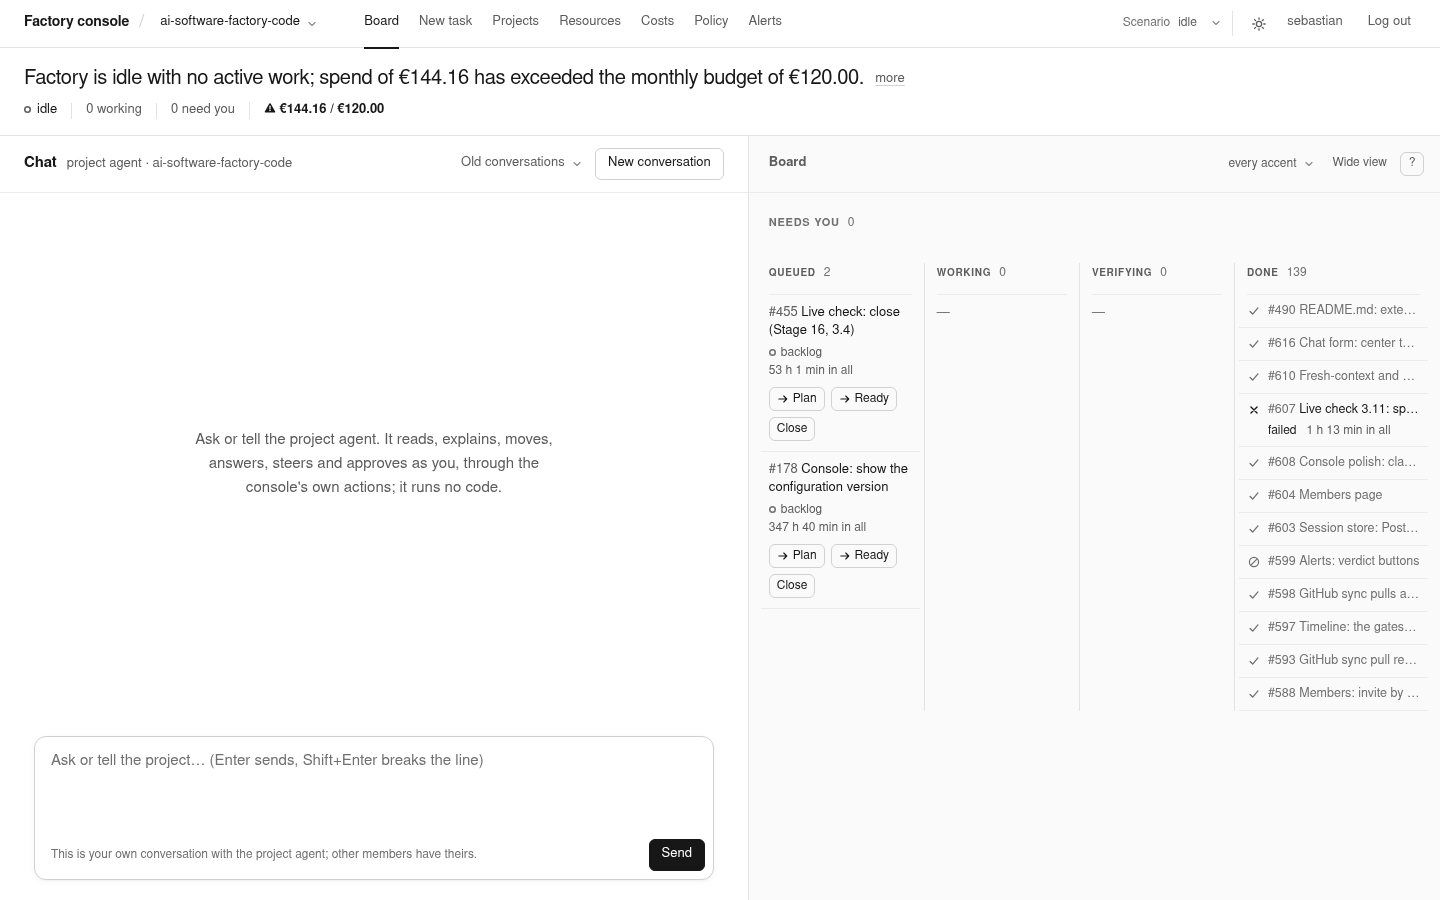
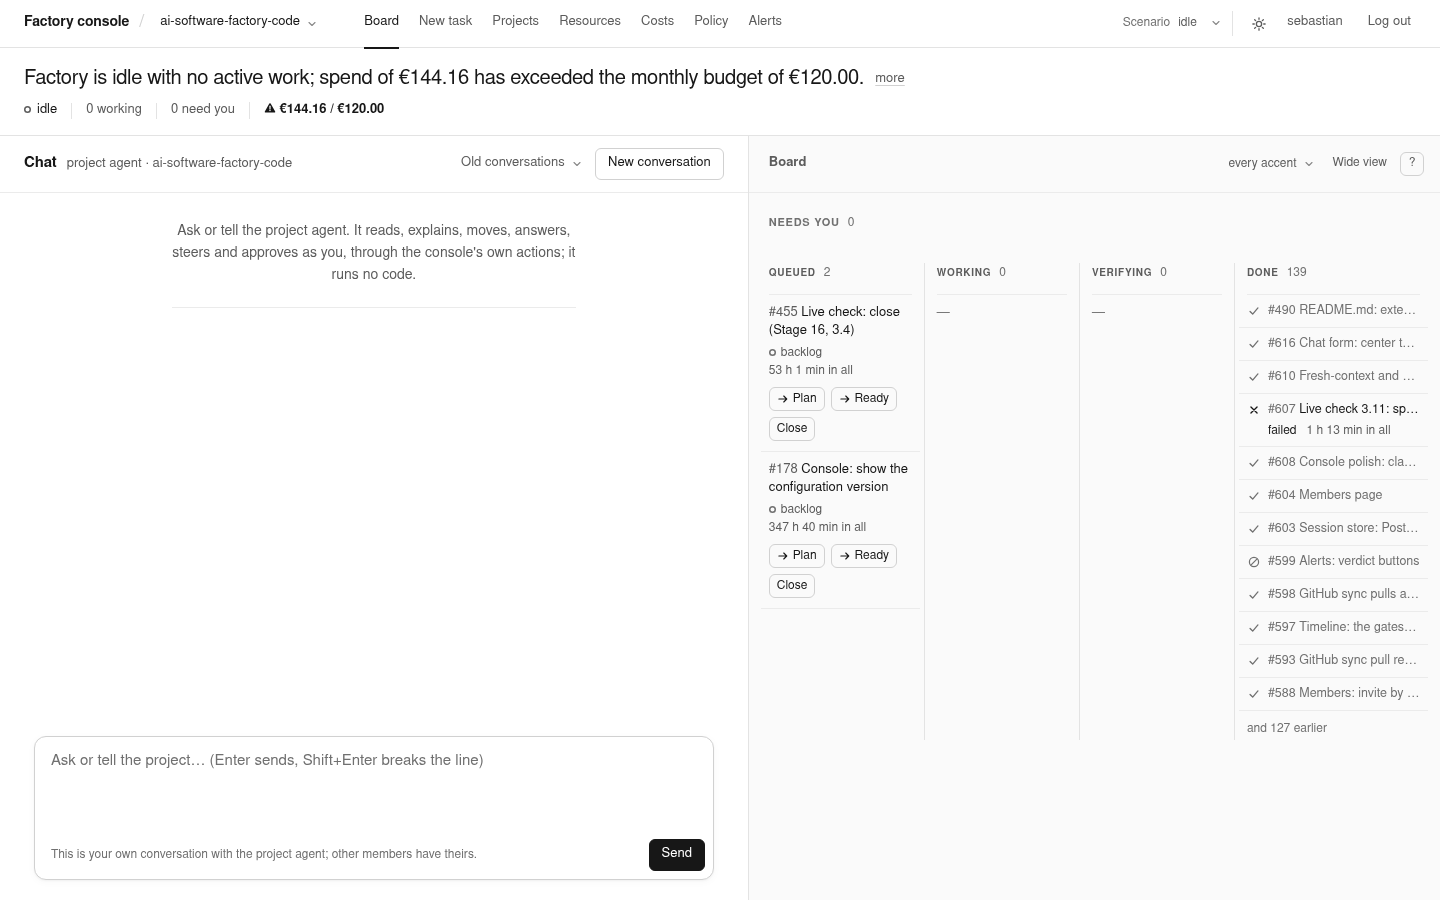
prototype 02 Geist contrast: fix loop 1 (phone buttons full width, contrast on tinted cards, the chat's start line, activity lines, idle Done) and the second critique

Changed region(s): [[0.125, 0.4667, 0.375, 0.56], [0.125, 0.2489, 0.4062, 0.3111]]

diff --git a/design/prototypes/02-geist-contrast/index.html b/design/prototypes/02-geist-contrast/index.html
@@ -27,7 +27,7 @@
   --text: #ededed; --text-muted: #a1a1a1; --text-faint: #808080;
   --primary-bg: #ededed; --primary-fg: #0a0a0a; --primary-hover: #ffffff;
   --need: #ffb224; --need-fill: #ffb224; --need-fill-hover: #ffc554; --need-fg: #0a0a0a; --need-fill-line: #ffb224;
-  --need-tint: rgb(255 178 36 / .07); --need-line: rgb(255 178 36 / .38); --need-line-strong: rgb(255 178 36 / .6);
+  --need-tint: rgb(255 178 36 / .07); --need-line: rgb(255 178 36 / .38); --need-line-strong: rgb(255 178 36 / .6); --need-muted: #b0b0b0;
   --shadow-drawer: -24px 0 48px rgb(0 0 0 / .5); --scrim: rgb(0 0 0 / .55); --shadow-soft: none; --ring: rgb(255 255 255 / .08);
 }
 [data-theme="light"] {
@@ -38,7 +38,7 @@
   --text: #171717; --text-muted: #5c5c5c; --text-faint: #707070;
   --primary-bg: #171717; --primary-fg: #fff; --primary-hover: #383838;
   --need: #a35200; --need-fill: #ffb224; --need-fill-hover: #ffa70a; --need-fg: #171717; --need-fill-line: #d18a0a;
-  --need-tint: #fff6e5; --need-line: #f0c987; --need-line-strong: #d9a24a;
+  --need-tint: #fff6e5; --need-line: #f0c987; --need-line-strong: #d9a24a; --need-muted: #4a4a4a;
   --shadow-drawer: -12px 0 40px rgb(0 0 0 / .08); --scrim: rgb(250 250 250 / .6); --shadow-soft: 0 1px 2px rgb(0 0 0 / .04), 0 2px 8px rgb(0 0 0 / .03); --ring: rgb(0 0 0 / .06);
 }
 * { box-sizing: border-box; }
@@ -69,8 +69,9 @@ ul, ol { padding: 0; list-style: none; }
 .btn-primary:hover { background: var(--primary-hover); border-color: var(--primary-hover); }
 .btn-need { background: var(--need-fill); color: var(--need-fg); border-color: var(--need-fill-line); font-weight: 600; }
 .btn-need:hover { background: var(--need-fill-hover); border-color: var(--need-fill-line); }
-.btn-choice { border-color: var(--need-line-strong); }
-.btn-choice:hover { background: var(--need-tint); border-color: var(--need); }
+.btn-choice, .need .btn:not(.btn-need):not(.btn-ghost), .open.is-need .btn:not(.btn-need) { border-color: var(--need-line-strong); }
+.btn-choice:hover, .need .btn:not(.btn-need):not(.btn-ghost):hover, .open.is-need .btn:not(.btn-need):hover { background: var(--need-tint); border-color: var(--need); }
+.need .acts, .need .choices, .need .row { align-items: center; }
 .btn-ghost { border-color: transparent; color: var(--text-muted); }
 .btn-ghost:hover { color: var(--text); background: var(--hover-strong); border-color: transparent; }
 .icon-btn { display: inline-grid; place-items: center; width: 32px; height: 32px; border-radius: var(--r-ctl); border: 0; background: transparent; color: var(--text-muted); transition: background var(--t), color var(--t); }
@@ -151,14 +152,12 @@ label.lbl { display: block; font-size: 12px; color: var(--text-muted); margin: 0
 .chat-tools { margin-left: auto; display: flex; align-items: center; gap: 8px; }
 .log { overflow-y: auto; min-height: 0; padding: 24px 24px 16px; scroll-behavior: smooth; }
 .col-c { max-width: 680px; margin: 0 auto; }
-.log .col-c { display: grid; gap: 20px; min-height: 100%; align-content: end; }
-.log .col-c:has(.empty-chat) { align-content: stretch; }
-.start { display: flex; align-items: center; gap: 12px; color: var(--text-faint); font-size: 12px; }
-.start::before, .start::after { content: ""; flex: 1; height: 1px; background: var(--line); }
-.empty-chat { display: grid; place-items: center; align-self: stretch; }
-.empty-chat p { max-width: 46ch; text-align: center; color: var(--text-muted); font-size: 15px; line-height: 1.6; }
+.log .col-c { display: flex; flex-direction: column; gap: 20px; min-height: 100%; }
+.log .col-c > .msg-agent { align-self: flex-start; }
+.start { align-self: center; max-width: 52ch; padding: 4px 0 20px; text-align: center; color: var(--text-muted); font-size: 14px; line-height: 22px; border-bottom: 1px solid var(--line); }
+.log .col-c > .start { margin-bottom: auto; }
 .msg { font-size: 15px; line-height: 24px; }
-.msg-you { justify-self: end; max-width: 80%; display: grid; justify-items: end; gap: 4px; }
+.msg-you { align-self: flex-end; max-width: 80%; display: grid; justify-items: end; gap: 4px; }
 .bubble { background: var(--bg-sub); padding: 8px 14px; border-radius: 14px 14px 4px 14px; }
 .msg-meta { font-size: 12px; line-height: 16px; color: var(--text-faint); }
 .msg-agent { display: grid; gap: 10px; max-width: 72ch; }
@@ -225,6 +224,8 @@ label.lbl { display: block; font-size: 12px; color: var(--text-muted); margin: 0
 .cols .col:last-child { padding-right: 0; }
 .cols .col-h { border-bottom: 1px solid var(--line); height: 32px; align-items: flex-start; }
 .col-empty { padding: 10px 0; color: var(--text-faint); }
+.earlier { display: inline-block; padding: 10px 0 0; font-size: 12px; color: var(--text-faint); text-decoration: none; transition: color var(--t); }
+.earlier:hover { color: var(--text); text-decoration: underline; text-underline-offset: 3px; }
 
 .card { position: relative; padding: 10px 8px; margin: 0 -8px; border-bottom: 1px solid var(--line); border-radius: 0; display: grid; gap: 4px; transition: background var(--t); }
 .card:hover { background: var(--hover); }
@@ -237,7 +238,7 @@ label.lbl { display: block; font-size: 12px; color: var(--text-muted); margin: 0
 .meta > .spend { flex-basis: 100%; white-space: normal; flex-wrap: wrap; gap: 0 5px; }
 .meta .hi { color: var(--text); }
 .meta .st-need { color: var(--need); }
-.activity { font: 11.5px/16px var(--mono); color: var(--text-faint); display: -webkit-box; -webkit-line-clamp: 2; -webkit-box-orient: vertical; overflow: hidden; overflow-wrap: anywhere; }
+.activity { font: 11.5px/16px var(--mono); color: var(--text-muted); display: -webkit-box; -webkit-line-clamp: 2; -webkit-box-orient: vertical; overflow: hidden; overflow-wrap: anywhere; }
 .activity .hi { color: var(--text); }
 .chips { display: flex; flex-wrap: wrap; gap: 4px; }
 .chip { display: inline-flex; align-items: center; height: 18px; padding: 0 6px; border-radius: 4px; background: var(--bg-sub); color: var(--text-muted); font-size: 11px; line-height: 1; white-space: nowrap; }
@@ -257,6 +258,7 @@ label.lbl { display: block; font-size: 12px; color: var(--text-muted); margin: 0
 .card-done.is-failed .meta { padding-left: 21px; }
 
 /* needs you */
+.need, .open.is-need { --text-muted: var(--need-muted); --text-faint: var(--need-muted); }
 .need { background: var(--need-tint); border: 1px solid var(--need-line); border-radius: var(--r-box); padding: 14px 16px 16px; display: grid; gap: 8px; align-content: start; min-width: 0; }
 .need-h { display: flex; align-items: flex-start; gap: 8px; }
 .need-title { text-align: left; border: 0; background: none; padding: 0; font-size: 14px; line-height: 20px; font-weight: 600; letter-spacing: -.005em; }
@@ -414,7 +416,11 @@ kbd { font: 12px/1 var(--mono); padding: 3px 6px; border: 1px solid var(--line-s
   .col-h { height: auto; }
   .col-needs { margin-bottom: 0; border-bottom: 1px solid var(--line-region); padding-bottom: 16px; }
   .needs-grid { grid-template-columns: 1fr; }
-  .need .acts .btn, .need .choices .btn { flex: 1 1 100%; height: 44px; font-size: 15px; }
+  .need .acts .btn, .need .choices .btn, .need .row .btn, .need .verdict .btn { flex: 1 1 100%; width: 100%; height: 44px; font-size: 15px; }
+  .need .verdict { display: grid; gap: 6px; margin: 0; }
+  .need .verdict .btn { border: 1px solid var(--need-line-strong); color: var(--text); font-weight: 500; }
+  .need-foot { flex-direction: column; flex-wrap: nowrap; align-items: stretch; gap: 6px; }
+  .need-foot .link { display: flex; align-items: center; justify-content: center; height: 44px; font-size: 15px; }
   .need .acts .btn-need { order: -1; }
   .cols { display: flex; flex-direction: column; }
   .cols .col { padding: 0; border-left: 0; border-bottom: 1px solid var(--line-region); }
@@ -624,10 +630,9 @@ function renderPulse(computing) {
   el.classList.toggle('is-prominent', !!p.prominent);
   const stateK = sc.state === 'waiting on you' ? 'need' : sc.state === 'working' ? 'run' : 'idle';
   const over = sc.spend > sc.cap;
-  const working = sc.working.filter((c) => !c.provider).length;
   const figs = [
     `<li class="fig-state"><span class="dot" data-s="${stateK}"></span>${esc(sc.state)}</li>`,
-    `<li>${working} working</li>`,
+    `<li>${sc.workingCount} working</li>`,
     sc.provider ? `<li>${sc.provider} waiting on the provider</li>` : '',
     `<li><a href="#needs" data-act="to-needs" class="${sc.needYou ? 'is-need' : ''}">${sc.needYou} ${sc.needYou === 1 ? 'needs' : 'need'} you</a></li>`,
     `<li><a href="#" class="${over ? 'is-over' : ''}" title="Costs">${over ? ic('warn', 'i-s') + ' ' : ''}${eur(sc.spend)} / ${eur(sc.cap)}</a></li>`,
@@ -661,13 +666,10 @@ function renderChat() {
   $('#chat-sub').textContent = 'project agent · ' + sc.project;
   const log = ui.chat;
   const col = $('#log-col');
-  if (!log.length) {
-    col.innerHTML = '<div class="empty-chat"><p>Ask or tell the project agent. It reads, explains, moves, answers, steers and approves as you, through the console\'s own actions; it runs no code.</p></div>';
-  } else {
-    col.innerHTML = `<p class="start">${esc(log[0].at || '')}</p>` + log.map((m, i) => m.who === 'you'
+  col.innerHTML = '<p class="start">Ask or tell the project agent. It reads, explains, moves, answers, steers and approves as you, through the console\'s own actions; it runs no code.</p>'
+    + log.map((m, i) => m.who === 'you'
       ? `<div class="msg msg-you"><p class="bubble">${esc(m.text)}</p><p class="msg-meta">${esc(m.at || '')}</p></div>`
       : agentMsg(m, i)).join('');
-  }
   $('#old-conv').innerHTML = '<option value="">Old conversations</option>' + ui.old.map((o, i) => `<option value="${i}">${esc(o[0].at)} · ${esc(o[0].text)}</option>`).join('');
   const q = $('#queue');
   q.hidden = !ui.queue.length;
@@ -772,6 +774,7 @@ function face(c, col) {
   return `<article class="card${c.stale ? ' is-stale' : ''}${open}" data-card="${c.issue}">
     ${titleBtn(c)}${stateRow(c, col)}${act}${chipsOf(c)}${acts.length ? `<div class="acts" data-confirm>${acts.join('')}</div>` : ''}</article>`;
 }
+const DONE_ROWS = 12;
 const COLS = [['queued', 'Queued'], ['working', 'Working'], ['verifying', 'Verifying'], ['done', 'Done']];
 function colHead(key, title, count) {
   const exp = !ui.collapsed[key];
@@ -784,10 +787,12 @@ function renderBoard() {
   let html = `<section class="col col-needs${needs.length ? '' : ' is-empty'}" id="needs" aria-labelledby="h-needs" tabindex="-1">${colHead('needs', 'Needs you', needs.length)}
     <div class="needs-grid col-list" id="list-needs"${hidden('needs')}>${needs.map((n) => needItem(n)).join('')}</div></section><div class="cols">`;
   for (const [key, title] of COLS) {
-    const list = f(sc[key]);
-    const count = key === 'done' && sc.doneCount && !ui.accent ? sc.doneCount : list.length;
+    const all = f(sc[key]);
+    const count = key === 'done' && sc.doneCount && !ui.accent ? sc.doneCount : all.length;
+    const list = key === 'done' ? all.slice(0, DONE_ROWS) : all;
+    const earlier = key === 'done' && count > list.length ? `<a class="earlier" href="#">and ${count - list.length} earlier</a>` : '';
     html += `<section class="col" data-col="${key}" aria-labelledby="h-${key}">${colHead(key, title, count)}
-      <div class="col-list" id="list-${key}"${hidden(key)}>${list.length ? list.map((c) => face(c, key)).join('') : '<p class="col-empty" aria-label="none">—</p>'}</div></section>`;
+      <div class="col-list" id="list-${key}"${hidden(key)}>${list.length ? list.map((c) => face(c, key)).join('') : '<p class="col-empty" aria-label="none">—</p>'}${earlier}</div></section>`;
   }
   $('#board-scroll').innerHTML = html + '</div>';
 }

diff --git a/design/themes/02-geist-contrast/DESIGN.md b/design/themes/02-geist-contrast/DESIGN.md
@@ -24,6 +24,7 @@ Vercel's Geist: pure black or pure white, greys for everything normal, one warm 
 | --need | #ffb224 (11.6:1) | #a35200 (5.6:1) | Needs you headings, the pulse's warning sign, "waiting on you", "n need you" |
 | --need-fill | #ffb224, text #0a0a0a | #ffb224, text #171717 (9.9:1), border #d18a0a | Approve as you, Grant one session, Accept plan |
 | --need-tint / --need-line | amber 7 % / amber 38 % | #fff6e5 / #f0c987 | the Needs you item's ground and edge |
+| --need-muted | #b0b0b0 | #4a4a4a (8.3:1 on #fff6e5) | replaces --text-muted and --text-faint inside Needs you items and the drawer's open need |
 | state hues | greyscale | greyscale | running: filled dot in --text, pulsing; in review: filled dot in --text-muted; queued, backlog, waiting on dependencies: hollow ring; waiting on a human: amber dot; done: check; failed: cross in --text; closed: slashed circle. The word always follows the glyph, so colour is never the only signal |
 
 Elevation: dark uses hairlines only; light adds soft shadows (drawer `-12px 0 40px rgb(0 0 0 / .08)`, composer and proposal `0 1px 2px rgb(0 0 0 / .04)`). That and the grey board tray make light a day mood, not an inversion.
@@ -56,6 +57,7 @@ Prominent (a card needs a person): the amber warning sign before the sentence, w
 
 - No panel box: the chat is the page's own black or white; it reads as the main region by width, the 15 px type and the large composer.
 - Header: "Chat", "project agent · project", old conversations select, New conversation (secondary button).
+- The start line tops every log, centred, 14 px muted, a 1 px rule under it: "Ask or tell the project agent. It reads, explains, moves, answers, steers and approves as you, through the console's own actions; it runs no code." The messages sit at the bottom of the log, by the composer, so the start line fills the space above a short history.
 - Yours: right-aligned bubble on --bg-sub, radius 14/14/4/14, time under it in --text-faint.
 - Agent: label "project agent · 14:21" in 12 px muted, text plain at full measure (72 ch).
 - Tool block: one quiet row, chevron, mono name, "· 0.4 s"; opens to arguments and result.
@@ -65,9 +67,10 @@ Prominent (a card needs a person): the amber warning sign before the sentence, w
 ## The board and the card
 
 - Column heads: small capitals, --text-muted, the count in --text-faint; a 1 px rule under each.
-- Card: no box. Rows divided by 1 px --line, 10 px vertical padding. Line 1 a button: ref in --text-muted, title in --text, two lines at most. State row: glyph, state word, elapsed, then only the exceptional: n/n checks, gate and its age, PR, spend with the warning sign from 80 percent, in --text. Activity line in mono --text-faint on working and waiting cards only.
+- Card: no box. Rows divided by 1 px --line, 10 px vertical padding. Line 1 a button: ref in --text-muted, title in --text, two lines at most. State row: glyph, state word, elapsed, then only the exceptional: n/n checks, gate and its age, PR, spend with the warning sign from 80 percent, in --text. Activity line in mono 11.5 px --text-muted on working and waiting cards only.
 - Chips: 11 px on --bg-sub, radius 4. Exceptional chips (stale, on the provider, at its cap) are outlined in --text instead. The accent chip is the accent's name only: no hue, the board stays monochrome.
 - Stale card: an inset 1 px ring in --text-faint and "nothing for 40 min" in --text.
+- Done shows at most 12 rows, then one faint line "and n earlier" linking to the full list.
 - Done, closed: one line, glyph, ref, title, ellipsis, all --text-faint; the state word is in the glyph's label, the time in the row's title. Failed: two lines, the cross and title in --text, "failed · elapsed" under it.
 - Actions: 24 px ghost buttons, 1 px --line-strong, radius 6, visible always.
 - Hover: the row takes --hover; the title underlines. The open card keeps --hover-strong.
@@ -75,7 +78,7 @@ Prominent (a card needs a person): the amber warning sign before the sentence, w
 ## Needs you
 
 - The only boxes on the board: --need-tint ground, 1 px --need-line, radius 8, padding 14/16. Heading in --text 14 px 600; the band head "Needs you" in --need.
-- Merge: "Merge PR #n" (opens the drawer at Reviews and audit), the risk and migration as amber-outlined chips, the waiting time right; the task title; "Model review: verdict. summary"; "Recommendation: …"; Approve as you (amber fill), Deny (opens the reason box and the "Deny by" choice), Split.
+- Merge: "Merge PR #n" (opens the drawer at Reviews and audit), the risk and migration as amber-outlined chips, the waiting time right; the task title; "Model review: verdict. summary"; "Recommendation: …"; Approve as you (amber fill), Deny (opens the reason box and the "Deny by" choice), Split. Deny and Split are outlined in --need-line-strong, the same 32 px box as the primary.
 - Escalation: the ref and title as heading, the question, the choices as amber-outlined buttons, "Or in your words" (opens the box) and the small verdict buttons at the end. Capped: the box is open and its button reads "Grant one session with this answer" in amber fill.
 - Plan and resource approvals follow the merge's pattern (heading, two fact lines, amber primary first); no scenario carries one.
 - What makes them loudest: the only amber on the board, the only boxes, the only filled buttons.
@@ -90,7 +93,7 @@ Prominent (a card needs a person): the amber warning sign before the sentence, w
 
 ## The phone
 
-Under 900 px one column: top bar (the home word over the project select, a menu button for the links, the switch, theme, user and Log out), the pulse, the chat with its log at 55 percent of the viewport height and the composer, then the board: Needs you in full with full-width buttons, then Working, Verifying, Queued, Done, each a section whose head toggles it; Done starts collapsed. The drawer takes the full screen.
+Under 900 px one column: top bar (the home word over the project select, a menu button for the links, the switch, theme, user and Log out), the pulse, the chat with its log at 55 percent of the viewport height and the composer, then the board: Needs you in full, every button in it full width, one per row, 44 px tall, then Working, Verifying, Queued, Done, each a section whose head toggles it; Done starts collapsed. The drawer takes the full screen.
 
 ## Motion
 
